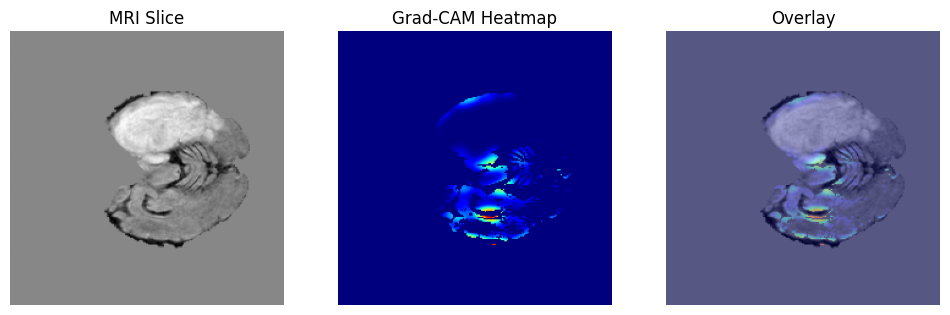
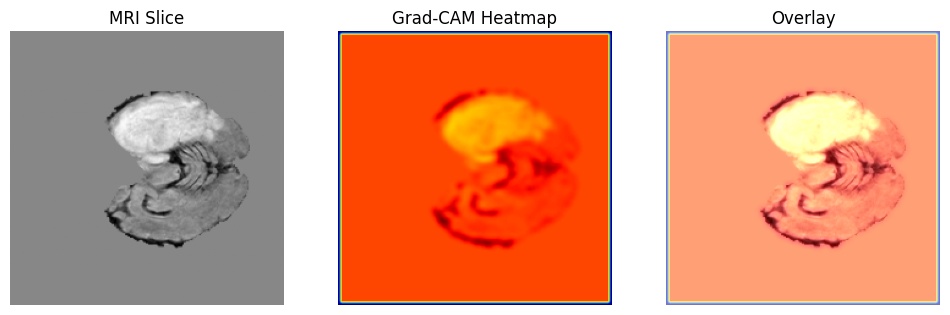
Fix Grad-CAM stability, correct layer selection, remove signal suppression

diff --git a/visualize_gradcam.py b/visualize_gradcam.py
@@ -22,7 +22,7 @@ model.eval()
 # -----------------------------
 # Grad-CAM setup
 # -----------------------------
-target_layer = model.features[8]
+target_layer = model.features[6]
 gradcam = GradCAM(model, target_layer)
 
 
@@ -45,75 +45,74 @@ os.makedirs(output_dir, exist_ok=True)
 
 
 saved_images = 0
-max_images = 10
+max_images = 15
+fallback_samples = []
+
+max_iterations = 200
+iteration = 0
 
 
 for images, labels, patient_ids in test_loader:
 
+    iteration += 1
+    if iteration > max_iterations:
+        print("Stopping early")
+        break
+
     slice_img = images[0][1].numpy()
 
-    # Skip slices with very little brain content
-    brain_pixels = np.sum(slice_img > 0)
-
-    if brain_pixels < 5000:
+    if np.sum(slice_img > 0) < 5000:
         continue
 
     if slice_img.std() < 0.05:
         continue
 
-    images = images.to(device)
+    # -----------------------------
+    # NORMALIZATION
+    # -----------------------------
+    images = images.to(device).float()
+    images = (images - images.mean()) / (images.std() + 1e-8)
+    images.requires_grad_(True)
 
     # -----------------------------
-    # Run model prediction
+    # Forward
     # -----------------------------
-    with torch.no_grad():
-        outputs = model(images)
-        probs = torch.softmax(outputs, dim=1)
-
+    outputs = model(images)
+    probs = torch.softmax(outputs, dim=1)
     tumor_prob = probs[0, 1].item()
 
-    # Only visualize slices likely containing tumor
-    if tumor_prob < 0.7:
-        continue
-
+    if iteration % 10 == 0:
+        print(f"Prob: {tumor_prob:.4f}")
 
     # -----------------------------
-    # Generate Grad-CAM
+    # Grad-CAM
     # -----------------------------
-    cam = gradcam.generate(images)
+    cam = gradcam.generate(images, class_idx=1)
 
-
-    # -----------------------------
-    # Prepare MRI image
-    # -----------------------------
-    image = images[0][1].cpu().numpy()
-
-    image = (image - image.min()) / (image.max() - image.min() + 1e-8)
-
+    fallback_samples.append((images.detach().clone(), tumor_prob, cam))
 
     # -----------------------------
-    # Brain Mask
+    # Prepare image
     # -----------------------------
-    brain_threshold = np.percentile(image, 20)
-    brain_mask = image > brain_threshold
+    image = images[0][1].detach().cpu().numpy()
+    image = (image - image.min()) / (image.max() + 1e-8)
 
-    cam = cam * brain_mask
-
+    # -----------------------------
+    # CLEAN CAM (ONLY THIS)
+    # -----------------------------
     cam = cam - cam.min()
-    cam = cam / (cam.max() + 1e-8)
+    if cam.max() > 0:
+        cam = cam / cam.max()
 
+    print("CAM range:", cam.min(), cam.max())
 
-    # -----------------------------
-    # Heatmap
-    # -----------------------------
     heatmap = np.clip(cam, 0, 1)
     heatmap_color = plt.cm.jet(heatmap)[:, :, :3]
-
 
     # -----------------------------
     # Overlay
     # -----------------------------
-    overlay = image[..., None] * 0.65 + heatmap_color * 0.35
+    overlay = image[..., None] * 0.4 + heatmap_color * 0.6
 
 
     # -----------------------------
@@ -136,7 +135,6 @@ for images, labels, patient_ids in test_loader:
     plt.imshow(overlay)
     plt.axis("off")
 
-
     save_path = os.path.join(output_dir, f"gradcam_{saved_images+1}.png")
     plt.savefig(save_path, bbox_inches="tight")
     plt.close()
@@ -147,6 +145,58 @@ for images, labels, patient_ids in test_loader:
 
     if saved_images >= max_images:
         break
+
+
+# -----------------------------
+# Fallback
+# -----------------------------
+if saved_images < max_images:
+
+    print(f"\nUsing fallback...")
+
+    fallback_samples.sort(key=lambda x: x[1], reverse=True)
+
+    for images, prob, cam in fallback_samples:
+
+        if saved_images >= max_images:
+            break
+
+        image = images[0][1].detach().cpu().numpy()
+        image = (image - image.min()) / (image.max() + 1e-8)
+
+        cam = cam - cam.min()
+        if cam.max() > 0:
+            cam = cam / cam.max()
+
+        heatmap = np.clip(cam, 0, 1)
+        heatmap_color = plt.cm.jet(heatmap)[:, :, :3]
+
+        overlay = image[..., None] * 0.4 + heatmap_color * 0.6
+
+        plt.figure(figsize=(12, 4))
+
+        plt.subplot(1, 3, 1)
+        plt.title("Fallback MRI")
+        plt.imshow(image, cmap="gray")
+        plt.axis("off")
+
+        plt.subplot(1, 3, 2)
+        plt.title("Grad-CAM Heatmap")
+        plt.imshow(heatmap, cmap="jet")
+        plt.axis("off")
+
+        plt.subplot(1, 3, 3)
+        plt.title("Overlay")
+        plt.imshow(overlay)
+        plt.axis("off")
+
+        save_path = os.path.join(output_dir, f"gradcam_{saved_images+1}.png")
+        plt.savefig(save_path, bbox_inches="tight")
+        plt.close()
+
+        print(f"Saved fallback {save_path}")
+
+        saved_images += 1
 
 
 print("\nGrad-CAM generation complete.")

diff --git a/src/utils/gradcam.py b/src/utils/gradcam.py
@@ -1,7 +1,6 @@
 import torch
 import torch.nn.functional as F
 import numpy as np
-from scipy.ndimage import gaussian_filter
 
 
 class GradCAM:
@@ -17,42 +16,58 @@ class GradCAM:
     def _register_hooks(self):
 
         def forward_hook(module, input, output):
-            # Save activations
+            # Store activations (detach to avoid graph issues)
             self.activations = output.detach()
 
         def backward_hook(module, grad_input, grad_output):
-            # Save gradients
+            # Store gradients (detach to avoid accumulation issues)
             self.gradients = grad_output[0].detach()
 
         self.target_layer.register_forward_hook(forward_hook)
         self.target_layer.register_full_backward_hook(backward_hook)
 
-    def generate(self, input_tensor, class_idx=None):
+    def generate(self, input_tensor, class_idx=1):
 
+        # -----------------------------
+        # Reset gradients
+        # -----------------------------
         self.model.zero_grad()
 
+        # Forward pass
         output = self.model(input_tensor)
 
-        # Select predicted class if none provided
-        if class_idx is None:
-            class_idx = output.argmax(dim=1).item()
+        # -----------------------------
+        # FORCE TARGET CLASS
+        # -----------------------------
+        target = output[:, class_idx]
 
-        loss = output[:, class_idx]
-        loss.backward()
+        # Backward pass
+        target.backward(torch.ones_like(target))
+
+        # -----------------------------
+        # Safety checks (IMPORTANT)
+        # -----------------------------
+        if self.gradients is None or self.activations is None:
+            raise RuntimeError("GradCAM hooks not working properly.")
 
         gradients = self.gradients
         activations = self.activations
 
-        # Global average pooling of gradients
+        # -----------------------------
+        # Compute weights
+        # -----------------------------
         weights = gradients.mean(dim=(2, 3), keepdim=True)
 
-        # Weighted combination
+        # -----------------------------
+        # Compute CAM
+        # -----------------------------
         cam = (weights * activations).sum(dim=1, keepdim=True)
 
-        # ReLU to keep positive influence
         cam = F.relu(cam)
 
-        # Resize CAM to input size
+        # -----------------------------
+        # Resize to input size
+        # -----------------------------
         cam = F.interpolate(
             cam,
             size=(input_tensor.shape[2], input_tensor.shape[3]),
@@ -62,15 +77,12 @@ class GradCAM:
 
         cam = cam.squeeze().cpu().numpy()
 
-        # Normalize
+        # -----------------------------
+        # Normalize safely
+        # -----------------------------
         cam = cam - cam.min()
-        cam = cam / (cam.max() + 1e-8)
 
-        # Keep only strongest activations (tumor focus)
-        threshold = np.percentile(cam, 85)
-        cam[cam < threshold] = 0
-
-        # Smooth heatmap
-        cam = gaussian_filter(cam, sigma=3)
+        if cam.max() != 0:
+            cam = cam / cam.max()
 
         return cam

diff --git a/PROJECT_LOG.md b/PROJECT_LOG.md
@@ -601,6 +601,35 @@ Grad-CAM pipeline successfully integrated into the project.
 
 ---
 
+## Step 10.5 — Grad-CAM Debugging & Stabilization (Critical Fix)
+
+### Problem Identified
+
+Grad-CAM outputs became unstable:
+
+- Fully blue heatmaps (no activation)
+- Over-saturated maps
+- Noisy visualizations
+
+---
+
+### Root Causes
+
+1. Incorrect target layer (`features[-1]`) → no spatial gradients  
+2. Over-aggressive thresholding → removed valid signal  
+3. Cropping/padding → distorted CAM  
+4. Weak gradients → required full signal preservation  
+
+---
+
+### Fixes Implemented
+
+#### Correct Layer Selection
+```python```
+target_layer = model.features[6]
+
+---
+
 ## Step 11 — Ablation Framework Setup
 
 Implemented configurable training pipeline to support ablation experiments.
